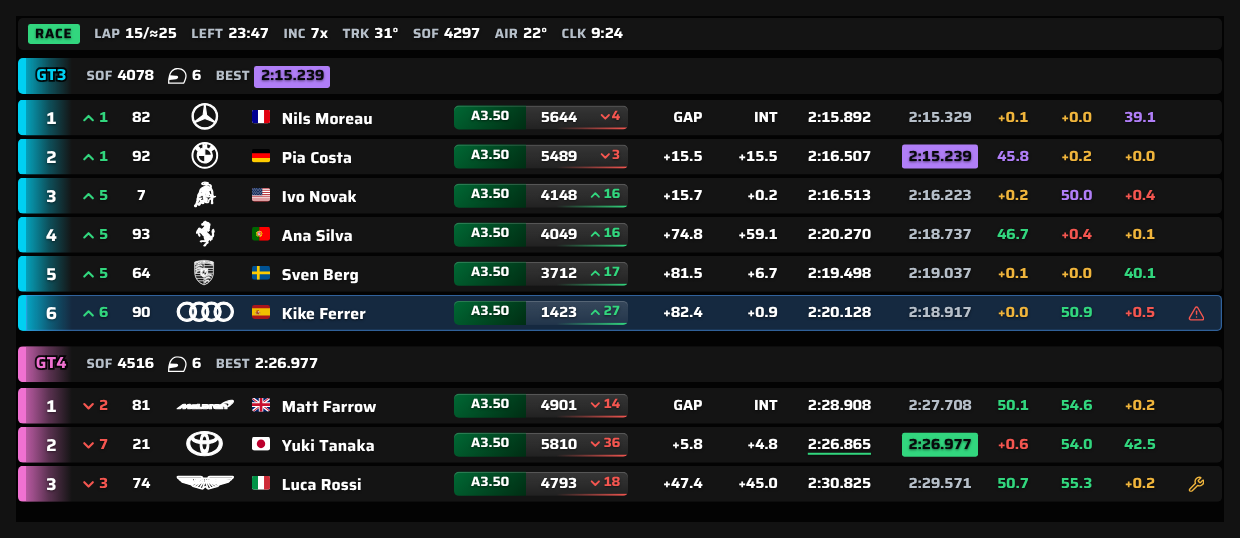
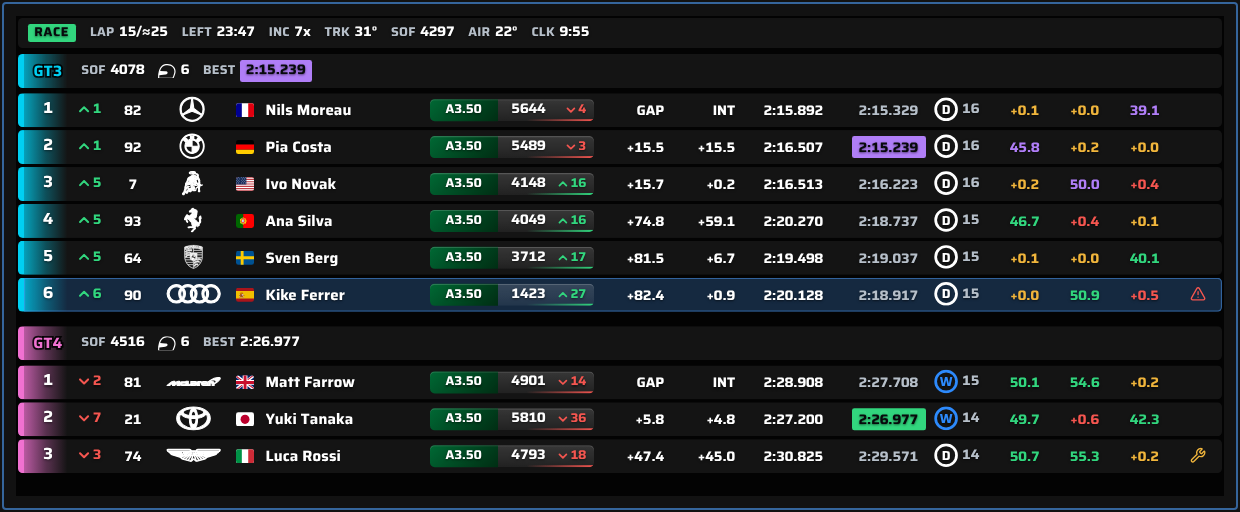
feat(standings): tyres back on Standings, optional; kept on Relative — v1.17.0 (#83)
* feat(standings): tyre column back on Standings, optional — kept on Relative

The tyre column returns to Standings as a configurable column ("Tyre
compound", label Tyre) between the best lap and the sectors, on by default
like every other column and switchable from Manager → Standings → Columns.
It draws the Relative's D/W badge, sized to the Standings brand mark
(STANDINGS_BRAND_H) through a new `size` prop on TireCell, so mark and badge
still read as a pair. It is not scoped out of lap-time sessions. The column
reuses the `tire` id it had before 1.15, so a save that switched it off
then still has it off. Relative is unchanged.

design.md rule 15 and the tyre-wet token row now describe the badge on both
tables, with a provenance entry. Site captures standings and
standings-compact are re-shot (compact frame re-measured: 256, width-limited
from 255; standings still full size at 428); the Standings band reads 15
columns again and both alts mention the tyre column.

Claude-Session: https://claude.ai/code/session_019zwunmUAM8a1Ne6rwqPFaB

* chore(release): v1.17.0

Same five version files and the same script (`bump minor`) as v1.13.0–
v1.16.0, routed through this PR rather than release.yml, whose direct push
to main the `contribution` ruleset rejects.

Claude-Session: https://claude.ai/code/session_019zwunmUAM8a1Ne6rwqPFaB

---------

diff --git a/src/components/standings/cells.tsx b/src/components/standings/cells.tsx
@@ -593,7 +593,7 @@ export function SectorCell({ sector }: { sector: SectorSplit | undefined }) {
 }
 
 /* -------------------------------------------------------------------------- */
-/*  Tyre compound + age cell (Relative)                                       */
+/*  Tyre compound + age cell                                                  */
 /* -------------------------------------------------------------------------- */
 
 /**
@@ -610,11 +610,10 @@ const COMPOUND_LABEL: Record<number, string> = { 0: "P", 1: "A", 2: "B", 3: "C" 
 /**
  * Compound badge (`D` dry / `W` wet), then laps on the set.
  *
- * It lives on the Relative now, not Standings: what a driver wants from a tyre
- * readout is whether the cars *around them* have gone to wets, and how old the
- * rubber is on the car they are about to race — a question about neighbours,
- * which is the Relative's whole subject. Standings carried it for the full
- * field, at a cost of a column on the widest surface in the app.
+ * Both timing tables carry it, each as an option that is on by default. On the
+ * Relative it answers whether the cars *around you* have gone to wets and how
+ * old the rubber is on the car you are about to race; on Standings, the same
+ * for the whole field — who pitted for wets, and who is on an old set.
  *
  * The badge's colour is the one exception to "the row's own ink": blue for a
  * wet is the meaning, so it is fixed (see {@link TyreCompoundIcon}). The lap
@@ -628,11 +627,14 @@ export function TireCell({
   compound,
   laps,
   ink,
+  size = BRAND_ICON_H,
 }: {
   compound: number | null;
   laps: number;
   /** The row's ink, for the lap count. Defaults to `muted`. */
   ink?: string;
+  /** Badge height in px — the brand mark's height on the same row. */
+  size?: number;
 }) {
   const kind = useSessionStore((s) => tyreKind(compound, s.session?.tireCompounds));
   const name = useSessionStore((s) => tyreName(compound, s.session?.tireCompounds));
@@ -643,18 +645,18 @@ export function TireCell({
   const title = kind
     ? `${kind === "wet" ? "Wet" : "Dry"}${name && name.toLowerCase() !== kind ? ` (${name})` : ""}`
     : `Compound ${label}`;
-  // The badge is drawn at the brand mark's height (`BRAND_ICON_H`), so the car's
-  // mark and its tyre, side by side on the row, read as a pair of the same size
-  // rather than a large badge and a small one.
+  // The badge is drawn at the brand mark's height (`BRAND_ICON_H` on Relative,
+  // `STANDINGS_BRAND_H` on Standings), so the car's mark and its tyre read as a
+  // pair of the same size rather than a large badge and a small one.
   return (
     <div className="flex items-center justify-center gap-1">
       <span
         className="flex justify-center text-center text-[13px] font-bold leading-none text-text"
-        style={{ width: BRAND_ICON_H }}
+        style={{ width: size }}
         title={title}
       >
         {kind ? (
-          <TyreCompoundIcon kind={kind} size={`${BRAND_ICON_H}px`} label={title} />
+          <TyreCompoundIcon kind={kind} size={`${size}px`} label={title} />
         ) : (
           label
         )}

diff --git a/site/index.html b/site/index.html
@@ -326,7 +326,7 @@
             <img
               src="assets/standings-compact.png"
               width="1240"
-              height="538"
+              height="512"
               alt="The standings overlay in a narrow window, drawn small enough that
                    every column still fits: a session strip reading lap, time left,
                    incidents, track and air temperature, strength of field and the
@@ -336,7 +336,7 @@
                    from its left edge and fades out behind the position, carrying
                    position, position change, car number, car brand, flag,
                    driver, a combined licence and iRating pill, gap, interval, last
-                   lap, best lap and three sector columns."
+                   lap, best lap, tyre and three sector columns."
             />
           </figure>
         </section>
@@ -347,7 +347,7 @@
         <section id="standings" class="row row--wide">
           <div class="band">
             <span class="band__chip">Standings</span>
-            <span class="band__field"><span class="band__k">COLUMNS</span><b class="band__v">14</b></span>
+            <span class="band__field"><span class="band__k">COLUMNS</span><b class="band__v">15</b></span>
             <span class="band__field"><span class="band__k">ALWAYS</span><b class="band__v">3</b></span>
             <span class="band__field"><span class="band__k">ROW</span><b class="band__v">32px</b></span>
           </div>
@@ -367,6 +367,7 @@
               <li>Sector times and deltas, graded against your own best and the field's</li>
               <li>iRating with a live projected change, licence class and safety rating</li>
               <li>Who just passed whom: a green or red arrow on every change of place</li>
+              <li>Every car's tyres — a white D for dries, a blue W for wets — and laps on the set</li>
             </ul>
           </div>
           <figure class="shot">
@@ -382,8 +383,9 @@
                    edge to the position — carrying
                    position, position change, car number, car brand, flag, driver, a
                    combined licence and iRating pill, gap, interval, last lap, best
-                   lap and three sector columns. Each class leader's row reads GAP
-                   and INT where it has no gap to show."
+                   lap, tyre and three sector columns — two of the GT4 cars are on
+                   wets, shown by a blue W. Each class leader's row reads GAP and INT
+                   where it has no gap to show."
             />
           </figure>
         </section>

diff --git a/src/components/standings/constants.test.ts b/src/components/standings/constants.test.ts
@@ -1,6 +1,7 @@
 import { describe, expect, it } from "vitest";
 
 import {
+  CONFIGURABLE_COLUMNS,
   scopeColumnsToSession,
   tableMinWidth,
   visibleColumns,
@@ -45,6 +46,22 @@ describe("scopeColumnsToSession", () => {
     const scoped = scopeColumnsToSession(noBrand, true);
     expect(scoped("brand")).toBe(false);
     expect(scoped("irating")).toBe(true);
+  });
+});
+
+describe("tyre column", () => {
+  it("is a column the user can switch off", () => {
+    expect(CONFIGURABLE_COLUMNS.some((c) => c.id === "tire")).toBe(true);
+  });
+
+  it("sits after the lap times and before the sectors", () => {
+    const ids = visibleColumns(3, allOn).map((c) => c.col.id);
+    expect(ids.indexOf("tire")).toBe(ids.indexOf("best") + 1);
+    expect(ids.indexOf("tire")).toBeLessThan(ids.indexOf("sectors"));
+  });
+
+  it("stays in a lap-time session — tyres matter on a timesheet too", () => {
+    expect(scopeColumnsToSession(allOn, true)("tire")).toBe(true);
   });
 });
 

diff --git a/src/components/standings/constants.ts b/src/components/standings/constants.ts
@@ -129,6 +129,7 @@ export type StandingsColumnId =
   | "interval"
   | "last"
   | "best"
+  | "tire"
   | "sectors"
   | "state";
 
@@ -190,6 +191,9 @@ export const STANDINGS_COLUMNS: readonly ColumnDef[] = [
   { id: "interval", label: "Int", name: "Interval", width: "3.6rem", px: 58, align: "right" },
   { id: "last", label: "Last", name: "Last lap", width: "4.9rem", px: 78, align: "right" },
   { id: "best", label: "Best", name: "Best lap", width: "4.9rem", px: 78, align: "right" },
+  // The Relative's column width: a brand-mark-sized badge and a three-digit
+  // lap count side by side (`TireCell`).
+  { id: "tire", label: "Tyre", name: "Tyre compound", width: "3.4rem", px: 54, align: "center" },
   { id: "sectors", label: "S", name: "Sector deltas", width: "3rem", px: 48, align: "center" },
   { id: "state", label: "", name: "Pit / off-track", width: "2.2rem", px: 35, align: "center", always: true },
 ];

diff --git a/src/components/standings/StandingsRow.tsx b/src/components/standings/StandingsRow.tsx
@@ -29,6 +29,7 @@ import {
   LicenseBadge,
   PosChange,
   SectorCell,
+  TireCell,
 } from "./cells";
 
 interface StandingsRowProps {
@@ -309,6 +310,16 @@ function StandingsRowInner({
                   ? "Fastest lap in class"
                   : undefined
             }
+          />
+        )}
+
+        {/* tyre compound + laps on the set, the badge at the brand mark's
+            height so the two read as a pair (as on Relative) */}
+        {isVisible("tire") && (
+          <TireCell
+            compound={row?.tireCompound ?? null}
+            laps={row?.tireLaps ?? 0}
+            size={STANDINGS_BRAND_H}
           />
         )}
 

diff --git a/src/stores/useStandingsUiStore.test.ts b/src/stores/useStandingsUiStore.test.ts
@@ -45,6 +45,12 @@ describe("standings column configuration", () => {
   it("shows every column by default", () => {
     expect(store().isColumnVisible("irating")).toBe(true);
     expect(store().isColumnVisible("sectors")).toBe(true);
+    expect(store().isColumnVisible("tire")).toBe(true);
+  });
+
+  it("can switch the tyre column off", () => {
+    store().toggleColumn("tire");
+    expect(store().isColumnVisible("tire")).toBe(false);
   });
 
   it("toggles a column off and back on", () => {

diff --git a/design.md b/design.md
@@ -66,7 +66,7 @@ separating one class group from the next.
 | `--color-primary` | interactive & informational: selection, links, **the player's own row** | telemetry values |
 | `--color-sector-purple` | overall-best lap/sector | anything else |
 | `--color-lapped` | Relative ink for a car a lap or more behind you — the sim's blue flag. Fixed, not themed | grounds, fills, anything but that ink |
-| `--color-tyre-wet` | a wet tyre: the ring and `W` of the Relative's compound badge. Fixed, not themed | anything but that badge |
+| `--color-tyre-wet` | a wet tyre: the ring and `W` of the compound badge on Standings and Relative. Fixed, not themed | anything but that badge |
 
 Two rules that fall out of that table and are easy to break:
 
@@ -802,14 +802,15 @@ the fact that a header band and a row cost the same height.
     about a compound is good, cautionary, critical or a session best.
 
     What a compound *does* have is a colour every driver already reads: blue
-    for rain. So the cell — now on Relative, see below — is a ring with one
+    for rain. So the cell — on both tables, see below — is a ring with one
     letter: **`D` in white (`text`) for a dry, `W` in `--color-tyre-wet` blue
     for a wet**, then laps on the set in the row's ink. Blue is its own token,
     fixed and unthemed like `lapped` and deeper than it, so a wet badge on a
     lapped row still reads as a badge (§ Theme table).
 
-    **The badge is the brand mark's height** (`BRAND_ICON_H`, 24 px), and its
-    letter the name's 13 px. Side by side on the row, a 24 px roundel beside a
+    **The badge is the brand mark's height** (`BRAND_ICON_H`, 24 px, on
+    Relative; `STANDINGS_BRAND_H`, 21 px, on Standings), and its letter the
+    name's 13 px. Side by side on the row, a 24 px roundel beside a
     17 px badge read as a large thing and a small one, which ranks two facts
     about the car that are equal; at one height they read as a pair. The
     column is 3.4rem, so a three-digit lap count still fits beside it.
@@ -822,12 +823,16 @@ the fact that a header band and a row cost the same height.
     only — replaced the letter; at row size that asked the reader to tell a
     dot from a drop.
 
-    **The tyre lives on Relative, not Standings.** Whether the cars around you
-    have gone to wets, and how old the rubber is on the car you are about to
-    race, is a question about neighbours, which is the Relative's whole
-    subject. Standings carried it for the whole field, at the cost of a column
-    on the widest surface in the app. It is a Manager option there, on by
-    default.
+    **The tyre is on both tables, and optional on both.** It moved to Relative
+    alone for 1.15: whether the cars around you have gone to wets, and how old
+    the rubber is on the car you are about to race, is a question about
+    neighbours, which is the Relative's whole subject. That call is reversed
+    for Standings, not for Relative. The whole-field version of the question
+    — who pitted for wets, who is on an old set in a long stint — has no other
+    place to be answered, and the column's cost on the widest surface is the
+    driver's to pay or not. On Relative it is the "Tyre compound" option; on
+    Standings it is the `Tyre` column, between the lap times and the sectors.
+    Both are on by default.
 
     The same rule covers alignment. **Every lap cell carries the fastest-lap
     chip's padding, filled or not**, so the filled time sits on the same
@@ -1258,6 +1263,13 @@ windows and in the Manager's preview — are now set in Saira like the two
 tables, mono micro-labels included, and nothing on the timing paper is
 lighter than semibold. § Typography and § Dense tabular overlays rule 8 were
 rewritten with it.
+
+**Tyres back on Standings, 2026-10-11.** At the owner's request the tyre
+column returns to Standings, with the Relative's `D`/`W` badge at the
+Standings brand mark's height, and stays on Relative. It is a column toggle on
+Standings (Manager → Columns) and the "Tyre compound" option on Relative, on
+by default on both. § Dense tabular overlays rule 15 and the `--color-tyre-wet`
+row of the theme table were rewritten with it.
 
 ## Known follow-ups
 

diff --git a/CHANGELOG.md b/CHANGELOG.md
@@ -7,6 +7,17 @@ and this project adheres to [Semantic Versioning](https://semver.org/spec/v2.0.0
 
 ## [Unreleased]
 
+## [1.17.0] - 2026-10-11
+
+### Added
+
+- **Tyres back on Standings.** Every car on Standings shows its tyre again —
+  the same white **D** for dries and blue **W** for wets as the Relative,
+  with the laps on the set — in a `Tyre` column between the best lap and the
+  sectors. It is on by default; turn it off under Overlay Manager →
+  Standings → Columns → "Tyre compound". The Relative keeps its tyres and its
+  own on/off option.
+
 ## [1.16.0] - 2026-10-11
 
 ### Changed
@@ -495,7 +506,8 @@ and this project adheres to [Semantic Versioning](https://semver.org/spec/v2.0.0
   with a SHA-256 so the download can be verified. It is not code-signed, so
   Windows SmartScreen will warn on first run — see the README.
 
-[Unreleased]: https://github.com/panyu1512/TelemetryLab/compare/v1.16.0...HEAD
+[Unreleased]: https://github.com/panyu1512/TelemetryLab/compare/v1.17.0...HEAD
+[1.17.0]: https://github.com/panyu1512/TelemetryLab/compare/v1.16.0...v1.17.0
 [1.16.0]: https://github.com/panyu1512/TelemetryLab/compare/v1.15.0...v1.16.0
 [1.15.0]: https://github.com/panyu1512/TelemetryLab/compare/v1.14.0...v1.15.0
 [1.14.0]: https://github.com/panyu1512/TelemetryLab/compare/v1.13.0...v1.14.0
